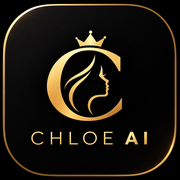
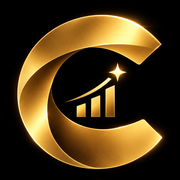
Add files via upload

diff --git a/Static/index.html b/Static/index.html
@@ -1,36 +1,37 @@
 <!doctype html>
 <html lang="en"><head><meta charset="utf-8"><meta name="viewport" content="width=device-width,initial-scale=1,viewport-fit=cover">
 <title>Chloe AI</title>
-<link rel="manifest" href="/manifest.webmanifest"><link rel="icon" href="/icon.svg" type="image/svg+xml"><link rel="apple-touch-icon" href="/apple-touch-icon.png"><meta name="theme-color" content="#000000">
-<link rel="stylesheet" href="https://fonts.googleapis.com/css2?family=Sora:wght@400;600;700&family=JetBrains+Mono:wght@400;500&display=swap">
+<link rel="manifest" href="/manifest.webmanifest"><link rel="icon" href="/icon-192.png?v=2" type="image/png"><link rel="apple-touch-icon" href="/apple-touch-icon.png?v=2"><meta name="theme-color" content="#050607">
+<link rel="stylesheet" href="https://fonts.googleapis.com/css2?family=Montserrat:wght@600;700;800&family=Poppins:wght@400;500;600&family=JetBrains+Mono:wght@400;500&display=swap">
 <style>
 [hidden]{display:none!important}
 /* Layout: one-column phone app. Header, six tabbed panels (Signal, News, Data, Risk, Test, Journal), fixed bottom tab bar. Dark-first, teal-green on deep blue-black to match the user's mockup. */
 :root{
-  --bg:#07131a; --surface:#0d1f28; --surface2:#122a35; --line:#1d3a47;
-  --fg:#e6f2ef; --muted:#8aa5ab; --accent:#19d3a2; --accent-ink:#04231a;
-  --buy:#19d3a2; --sell:#ff5c6c; --warn:#f2b84b; --swing:#5fb4ff;
-  --font-display:'Sora',system-ui,-apple-system,'Segoe UI',sans-serif;
+  --bg:#080A0D; --surface:#12161B; --surface2:#1A1F26; --line:#2A2E33; --gold-line:rgba(217,182,102,.24);
+  --fg:#F5EAD5; --muted:#A7ADB5; --accent:#D9B66F; --accent-ink:#1A1407; --gold-hi:#EBCB86; --gold-lo:#B98A36;
+  --buy:#27D995; --sell:#FF6470; --warn:#F29B4B; --swing:#6BB8FF;
+  --font-display:'Poppins',system-ui,-apple-system,'Segoe UI',sans-serif;
+  --font-head:'Montserrat','Poppins',system-ui,sans-serif;
   --font-mono:'JetBrains Mono',ui-monospace,'SF Mono',Menlo,Consolas,monospace;
+  --gold-grad:linear-gradient(135deg,#EBCB86 0%,#D9B66F 45%,#B98A36 100%);
   color-scheme:dark;
 }
-@media (prefers-color-scheme: light){
-  :root:not([data-theme="dark"]){
-    --bg:#f0f6f4; --surface:#ffffff; --surface2:#e5eeec; --line:#cddad7;
-    --fg:#0c1f26; --muted:#506d76; --accent:#00936f; --accent-ink:#ffffff;
-    --buy:#00836a; --sell:#d03447; --warn:#9a6600; --swing:#1f6fb8;
-    color-scheme:light;
-  }
-}
-:root[data-theme="light"]{
-  --bg:#f0f6f4; --surface:#ffffff; --surface2:#e5eeec; --line:#cddad7;
-  --fg:#0c1f26; --muted:#506d76; --accent:#00936f; --accent-ink:#ffffff;
-  --buy:#00836a; --sell:#d03447; --warn:#9a6600; --swing:#1f6fb8;
-  color-scheme:light;
-}
+/* the brand is black and gold, so there is one theme only */
+#splash{position:fixed;inset:0;z-index:99;background:radial-gradient(600px 420px at 50% 38%,rgba(217,182,111,.16),transparent 70%),#050607;display:flex;flex-direction:column;align-items:center;justify-content:center;gap:14px;transition:opacity .5s ease,visibility .5s}
+#splash.gone{opacity:0;visibility:hidden}
+#splash img{width:150px;height:150px;border-radius:34px;box-shadow:0 0 0 1px var(--gold-line),0 10px 50px rgba(217,182,111,.35)}
+#splash h1{font-size:30px;letter-spacing:.14em;font-weight:800}
+#splash h1 span{color:var(--accent)}
+#splash p{margin:0;font-size:10px;letter-spacing:.28em;text-transform:uppercase;color:var(--muted)}
+#splash .sbar{width:150px;height:3px;border-radius:9px;background:#23262b;overflow:hidden;margin-top:10px}
+#splash .sbar i{display:block;height:100%;width:0;background:var(--gold-grad);animation:sload 1.1s ease forwards}
+@keyframes sload{to{width:100%}}
+@media (prefers-reduced-motion:reduce){#splash .sbar i{animation:none;width:100%}}
+
 *{box-sizing:border-box}
-body{background:var(--bg);color:var(--fg);font-family:var(--font-display);font-size:14px;line-height:1.45;padding-inline:16px;padding-block:12px 96px;max-width:760px;margin-inline:auto}
-h1,h2,h3{margin:0;font-weight:700;text-wrap:balance}
+body{background:radial-gradient(900px 340px at 50% -80px,rgba(217,182,111,.10),transparent 70%) no-repeat,var(--bg);color:var(--fg);font-family:var(--font-display);font-size:14px;line-height:1.45;padding-inline:16px;padding-block:12px 96px;max-width:760px;margin-inline:auto}
+h1,h2,h3{margin:0;font-weight:700;text-wrap:balance;font-family:var(--font-head)}
+h2{letter-spacing:.06em;text-transform:uppercase;font-size:13px;color:var(--muted)}
 .mono{font-family:var(--font-mono);font-variant-numeric:tabular-nums}
 .muted{color:var(--muted)}
 button,input,select,textarea{font:inherit;color:inherit}
@@ -39,11 +40,11 @@ a{color:var(--accent)}
 
 header{display:flex;flex-wrap:wrap;align-items:center;justify-content:space-between;gap:10px;padding-block:6px 14px}
 .brand{display:flex;align-items:center;gap:10px}
-.logo{width:40px;height:40px;flex:none;filter:drop-shadow(0 2px 8px rgba(44,245,192,.25))}
+.logo{width:44px;height:44px;flex:none;border-radius:12px;box-shadow:0 0 0 1px var(--gold-line),0 4px 18px rgba(217,182,111,.28)}
 .bt{display:flex;align-items:baseline;gap:8px;flex-wrap:wrap}
-.brand h1{font-size:22px;letter-spacing:.02em}
+.brand h1{font-size:22px;letter-spacing:.08em;font-weight:800}
 .brand h1 span{color:var(--accent)}
-.brand small{color:var(--muted);font-size:11px}
+.brand small{color:var(--muted);font-size:9.5px;letter-spacing:.2em;text-transform:uppercase}
 .chips{display:flex;flex-wrap:wrap;gap:6px}
 .chip{font-size:11px;padding:4px 9px;border-radius:99px;border:1px solid var(--line);background:var(--surface);display:inline-flex;align-items:center;gap:6px;white-space:nowrap}
 .chip i{width:7px;height:7px;border-radius:50%;background:var(--muted);display:inline-block}
@@ -63,7 +64,7 @@ header{display:flex;flex-wrap:wrap;align-items:center;justify-content:space-betw
 .pgrow{border-top:1px solid var(--line);padding:10px 0;display:grid;gap:8px}
 
 .panel{display:flex;flex-direction:column;gap:14px}
-.card{background:var(--surface);border:1px solid var(--line);border-radius:14px;padding:14px;min-width:0}
+.card{background:linear-gradient(180deg,#161B21 0%,#11151A 100%);border:1px solid var(--gold-line);border-radius:16px;padding:14px;min-width:0;box-shadow:0 8px 24px rgba(0,0,0,.35)}
 .card h2{font-size:13px;letter-spacing:.08em;text-transform:uppercase;color:var(--muted);margin-bottom:10px;font-weight:600}
 .row{display:flex;flex-wrap:wrap;gap:10px}
 .row>*{flex:1 1 130px;min-width:0}
@@ -72,9 +73,9 @@ label.chk{flex-direction:row;align-items:center;gap:9px;color:var(--fg);font-siz
 label.chk input{width:20px;height:20px;padding:0;flex:0 0 auto}
 input,select,textarea{background:var(--surface2);border:1px solid var(--line);border-radius:10px;padding:10px 11px;width:100%;min-width:0;color:var(--fg)}
 textarea{font-family:var(--font-mono);font-size:12px;min-height:120px;resize:vertical}
-.btn{background:var(--surface2);border:1px solid var(--line);border-radius:10px;padding:10px 14px;cursor:pointer;font-weight:600;font-size:13px}
+.btn{background:var(--surface2);border:1px solid var(--gold-line);border-radius:12px;padding:10px 14px;cursor:pointer;font-weight:600;font-size:13px}
 .btn:hover{border-color:var(--accent)}
-.btn.primary{background:var(--accent);color:var(--accent-ink);border-color:var(--accent)}
+.btn.primary{background:var(--gold-grad);color:var(--accent-ink);border-color:var(--gold-hi);font-weight:700}
 .btn:disabled{opacity:.45;cursor:not-allowed}
 .btns{display:flex;flex-wrap:wrap;gap:8px}
 
@@ -93,7 +94,7 @@ textarea{font-family:var(--font-mono);font-size:12px;min-height:120px;resize:ver
 .checks{list-style:none;margin:0;padding:0;display:grid;gap:7px}
 .checks li{display:flex;gap:9px;align-items:flex-start;font-size:13px}
 .checks .mk{flex:0 0 18px;height:18px;border-radius:50%;display:grid;place-items:center;font-size:11px;font-weight:700;background:var(--surface2);color:var(--muted);border:1px solid var(--line)}
-.checks li.pass .mk{background:var(--accent);color:var(--accent-ink);border-color:var(--accent)}
+.checks li.pass .mk{background:var(--buy);color:#04231a;border-color:var(--buy)}
 .lot{display:flex;align-items:baseline;justify-content:space-between;gap:10px}
 .lot b{font-size:30px;color:var(--accent)}
 .note{font-size:12px;color:var(--muted)}
@@ -141,18 +142,19 @@ canvas{display:block;max-width:100%}
 .bars b{display:block;font-size:20px;color:var(--fg)}
 .bars .top{border-color:var(--accent)}
 ol.steps{padding-left:18px;margin:0;display:grid;gap:8px;font-size:13px}
-nav{position:fixed;left:0;right:0;bottom:0;background:var(--surface);border-top:1px solid var(--line);display:flex;justify-content:center;padding:6px 6px calc(8px + env(safe-area-inset-bottom,0px))}
+nav{position:fixed;left:0;right:0;bottom:0;background:rgba(10,12,15,.96);backdrop-filter:blur(10px);border-top:1px solid var(--gold-line);display:flex;justify-content:center;padding:6px 6px calc(8px + env(safe-area-inset-bottom,0px))}
 nav .tabs{display:flex;gap:2px;width:100%;max-width:760px}
 nav button{flex:1;min-width:0;background:none;border:0;border-radius:10px;padding:8px 0;color:var(--muted);font-size:10.5px;font-weight:600;cursor:pointer;display:flex;flex-direction:column;align-items:center;gap:3px}
 nav button svg{width:20px;height:20px;stroke:currentColor;fill:none;stroke-width:1.8;stroke-linecap:round;stroke-linejoin:round}
-nav button[aria-selected="true"]{color:var(--accent);background:var(--surface2)}
+nav button[aria-selected="true"]{color:var(--gold-hi);background:linear-gradient(180deg,rgba(217,182,111,.16),rgba(217,182,111,.04));box-shadow:inset 0 -2px 0 var(--accent)}
 details summary{cursor:pointer;color:var(--muted);font-size:12px;font-weight:600}
 details[open] summary{margin-bottom:10px}
 @media (prefers-reduced-motion:no-preference){.sig-dir{transition:color .2s}}
 </style>
 
+<div id="splash" aria-hidden="true"><img src="/icon-512.png?v=2" alt=""><h1>CHLOE <span>AI</span></h1><p>Analyze · Learn · Trade smarter</p><div class="sbar"><i></i></div></div>
 <header>
-  <div class="brand"><img class="logo" src="/icon-192.png" alt="Chloe AI" style="border-radius:10px"><div class="bt"><h1>CHLOE <span>AI</span></h1><small>Trade smarter. Grow faster.</small></div></div>
+  <div class="brand"><img class="logo" src="/icon-192.png?v=2" alt="Chloe AI"><div class="bt"><h1>CHLOE <span>AI</span></h1><small>Analyze · Learn · Trade smarter</small></div></div>
   <div class="chips">
     <span class="chip warn" id="chipData"><i></i><span id="chipDataText">Data: sample (simulated)</span></span>
     <span class="chip" id="chipMt5"><i></i><span id="chipMt5Text">MT5: not linked</span></span>
@@ -392,6 +394,8 @@ details[open] summary{margin-bottom:10px}
   <div class="card">
     <h2>More tools</h2>
     <div class="stats">
+      <button class="btn primary" data-go="auto">Auto trading</button>
+      <button class="btn primary" data-go="strat">Strategies</button>
       <button class="btn" data-go="data">Data</button>
       <button class="btn" data-go="risk">Risk</button>
       <button class="btn" data-go="test">Backtest</button>
@@ -724,13 +728,17 @@ details[open] summary{margin-bottom:10px}
 <nav aria-label="Sections"><div class="tabs" role="tablist">
   <button role="tab" data-tab="signal" aria-selected="true"><svg viewBox="0 0 24 24"><path d="M3 17l5-6 4 3 8-9"/><path d="M15 5h5v5"/></svg>Signal</button>
   <button role="tab" data-tab="scalp" aria-selected="false"><svg viewBox="0 0 24 24"><path d="M13 2L4 14h7l-1 8 9-12h-7z"/></svg>Scalp</button>
-  <button role="tab" data-tab="strat" aria-selected="false"><svg viewBox="0 0 24 24"><rect x="4" y="4" width="7" height="7" rx="1"/><rect x="13" y="4" width="7" height="7" rx="1"/><rect x="4" y="13" width="7" height="7" rx="1"/><path d="M16.500 13v7M13 16.500h7"/></svg>Strategy</button>
   <button role="tab" data-tab="news" aria-selected="false"><svg viewBox="0 0 24 24"><path d="M4 5h13v14H6a2 2 0 01-2-2z"/><path d="M17 9h3v8a2 2 0 01-2 2"/><path d="M8 9h5M8 13h5"/></svg>News</button>
-  <button role="tab" data-tab="auto" aria-selected="false"><svg viewBox="0 0 24 24"><rect x="5" y="8" width="14" height="10" rx="2"/><path d="M12 8V4M9 13h.01M15 13h.01M9 21v-3M15 21v-3"/></svg>Auto</button>
   <button role="tab" data-tab="progress" aria-selected="false"><svg viewBox="0 0 24 24"><path d="M3 12h4l3-8 4 16 3-8h4"/></svg>Progress</button>
   <button role="tab" data-tab="more" aria-selected="false"><svg viewBox="0 0 24 24"><circle cx="5" cy="12" r="1.500"/><circle cx="12" cy="12" r="1.500"/><circle cx="19" cy="12" r="1.500"/></svg>More</button>
 </div></nav>
 
+<script>
+(function(){try{var sp=document.getElementById('splash');if(!sp)return;var seen=false;try{seen=sessionStorage.getItem('chloe.splash')==='1'}catch(e){}
+if(seen){sp.parentNode.removeChild(sp);return}
+try{sessionStorage.setItem('chloe.splash','1')}catch(e){}
+setTimeout(function(){sp.className='gone'},1200);setTimeout(function(){if(sp.parentNode)sp.parentNode.removeChild(sp)},1800)}catch(e){}})();
+</script>
 <script>
 (function(){
 'use strict';
@@ -1830,7 +1838,7 @@ function wireNew(){
   renderEvents();setInterval(renderEvents,60000);
 }
 
-var MORE=['data','risk','test','journal','ask','broker','chartcheck'],AC={key:'',sig:null};
+var MORE=['data','risk','test','journal','ask','broker','chartcheck','auto','strat'],AC={key:'',sig:null};
 /* ---------- strategy tab ---------- */
 var STRAT_GUIDE={
   pa:['Reads the last swing highs and lows for trend, looks for an engulfing or pin bar, checks the price is at a proven level with room to the next one, and checks the higher timeframe and your news view.','Stop beyond the nearest swing plus a quarter of the signal candle. Targets at the next levels, at least 0.8R, 1.5R and 2.5R away.'],

diff --git a/Static/sw.js b/Static/sw.js
@@ -1,4 +1,4 @@
-// Chloe AI service worker: lets Chrome offer "Install app". Always uses the live network.
+// Chloe AI service worker (v2, black and gold): lets Chrome offer "Install app". Always uses the live network.
 self.addEventListener('install', () => self.skipWaiting());
 self.addEventListener('activate', e => e.waitUntil(self.clients.claim()));
 self.addEventListener('fetch', e => {
